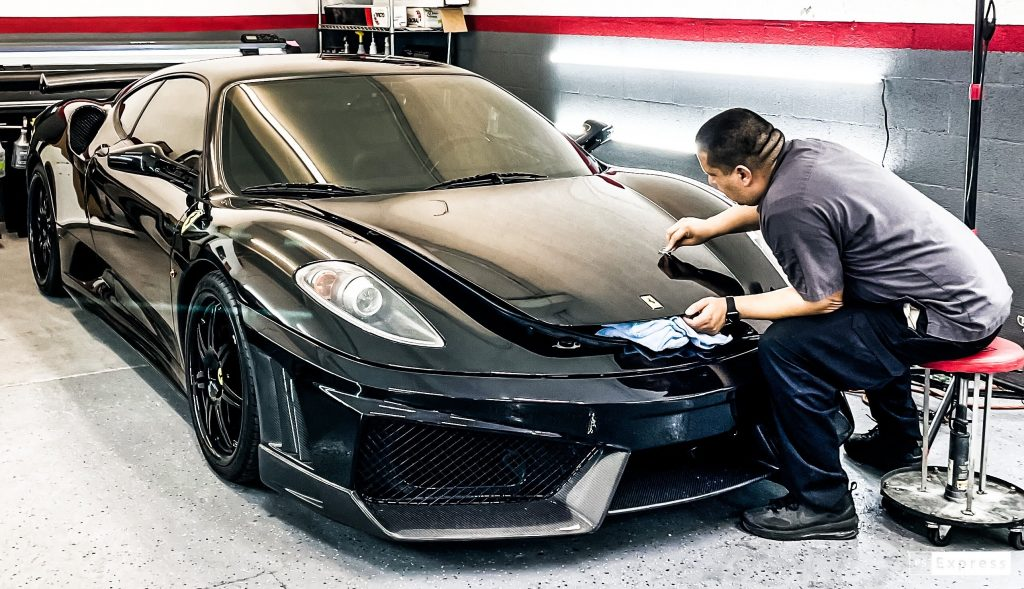
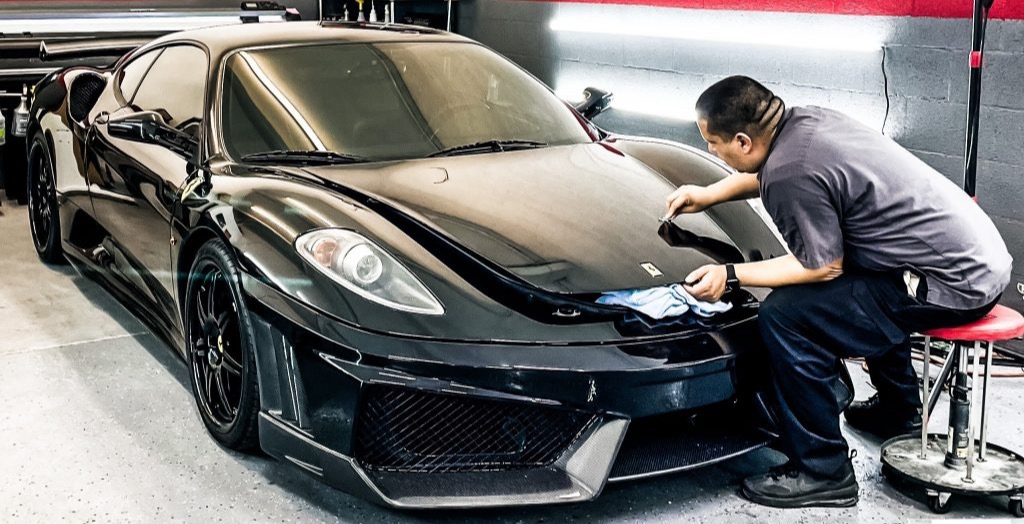
Add the Films photos and the cropped Ferrari photo
Follow-up to the previous commit, which recorded the rename and
.gitignore but missed these two modified files.

Claude-Session: https://claude.ai/code/session_01KuvxQQprmEaeF8pwnHSzse

diff --git a/index.html b/index.html
@@ -178,9 +178,11 @@
   }
   .strip::-webkit-scrollbar{display:none}
   .strip figure{flex:0 0 82%;scroll-snap-align:center}
-  .strip .ph{overflow:hidden;border-radius:6px}
-  .strip img{width:100%;aspect-ratio:4/3;object-fit:cover}
-  .strip figcaption{margin-top:10px;font-size:14px;color:var(--muted)}
+  .strip .ph,.films-pair .ph{overflow:hidden;border-radius:6px}
+  .strip img,.films-pair img{width:100%;aspect-ratio:4/3;object-fit:cover}
+  .strip figcaption,.films-pair figcaption{margin-top:10px;font-size:14px;color:var(--muted)}
+  /* Two photos under the films line: stacked on phones, side by side wider. */
+  .films-pair{display:grid;gap:22px;margin-top:26px}
   .swipe-hint{margin-top:6px;font-size:13px;color:var(--dim)}
 
   /* Review */
@@ -252,8 +254,8 @@
     html.js .rise:nth-child(4){transition-delay:.12s}
 
     /* Gallery photos grow a touch on hover; the wrapper clips them. */
-    .strip img{transition:transform .35s cubic-bezier(.2,.7,.2,1)}
-    .strip figure:hover img{transform:scale(1.04)}
+    .strip img,.films-pair img{transition:transform .35s cubic-bezier(.2,.7,.2,1)}
+    .strip figure:hover img,.films-pair figure:hover img{transform:scale(1.04)}
 
     /* Service rows and cards lift on hover. */
     .svc,.card{transition:transform .3s cubic-bezier(.2,.7,.2,1),border-color .3s ease}
@@ -286,6 +288,7 @@
     .trust-grid > div:nth-child(2){border-right:1px solid var(--line)}
     .strip{display:grid;grid-template-columns:repeat(4,1fr);overflow:visible;padding:40px 22px 0;gap:14px}
     .strip figure{flex:none}
+    .films-pair{grid-template-columns:1fr 1fr;gap:14px;margin-top:30px}
     .swipe-hint{display:none}
     .contact dl{grid-template-columns:repeat(3,1fr);gap:34px 20px;max-width:var(--wide)}
     .closer .btn{width:auto;min-width:300px}
@@ -338,6 +341,18 @@
   <div class="films rise">
     <div class="col">
       <p>I install <strong>LLumar</strong> paint protection film and <strong>Global</strong> window tint.</p>
+    </div>
+    <div class="wide">
+      <div class="films-pair">
+        <figure class="rise">
+          <div class="ph"><img src="images/audi-ppf-during-install.jpg" alt="Paint protection film being laid over the front bumper of a black Audi at Mando Auto Film in Las Vegas" width="1024" height="768" loading="lazy"></div>
+          <figcaption>Paint protection film</figcaption>
+        </figure>
+        <figure class="rise">
+          <div class="ph"><img src="images/black-porsche-macan.jpg" alt="Black Porsche Macan with freshly tinted windows at Mando Auto Film in Las Vegas" width="1024" height="768" loading="lazy"></div>
+          <figcaption>Window tint</figcaption>
+        </figure>
+      </div>
     </div>
   </div>
 
